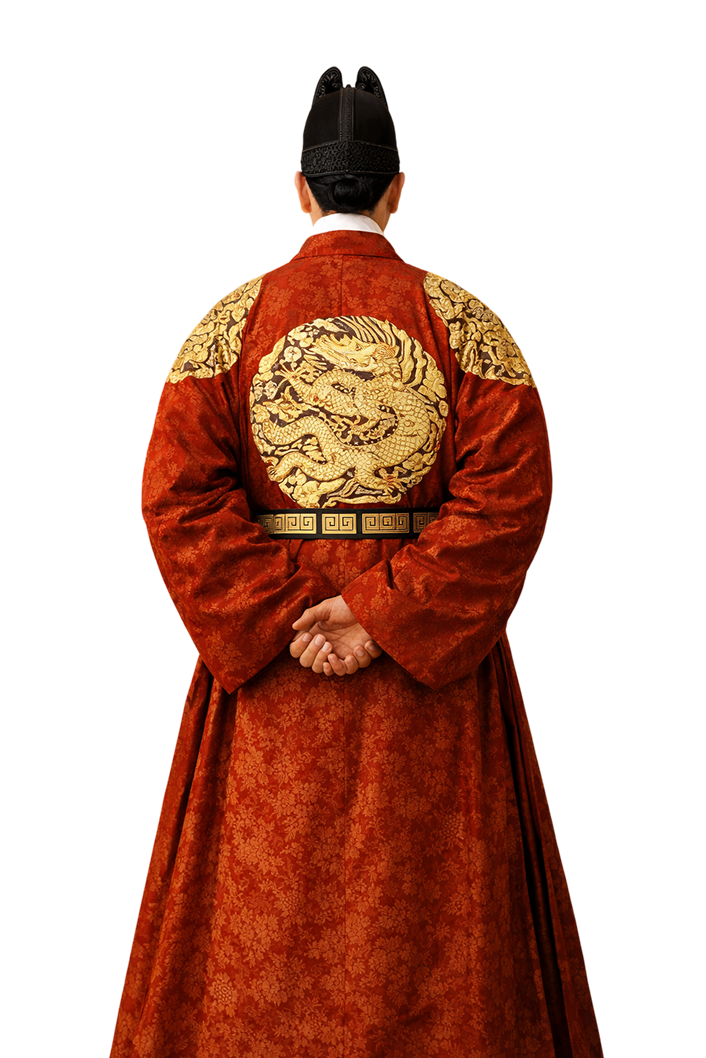
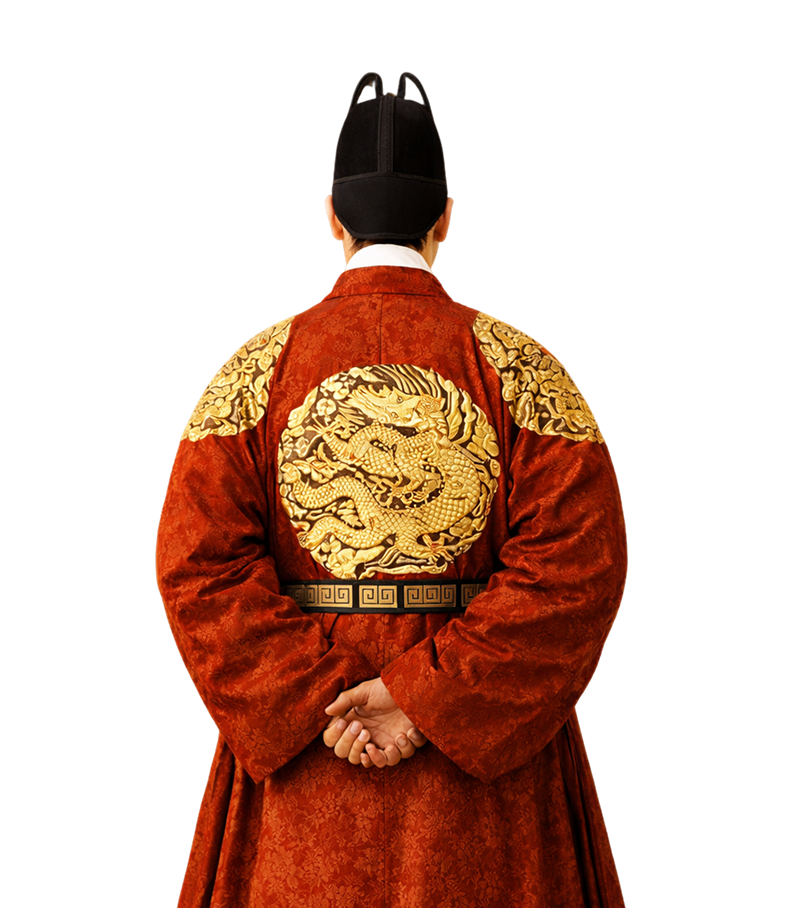
feat: aria속성 추가 및 왕 이미지 변경 스타일 수정

diff --git a/traditional1/src/parts/Hero/Herosection.tsx b/traditional1/src/parts/Hero/Herosection.tsx
@@ -4,12 +4,12 @@ import S from './HeroStyle.module.css';
 
 const Herosection = () => {
   return (
-    <section id={S.HeroSection}>
+    <section id={S.HeroSection} aria-labelledby="hero-title">
       <div className={S.heroBackground}>
         <img className={S.king} src={king} alt="" />
 
         <div className={S.heroText}>
-          <h1>왕실 유물 아카이브</h1>
+          <h1 id="hero-title">왕실 유물 아카이브</h1>
           <a className={S.linkButton} href="#">
             <div className={S.waveEffect}></div>
             <span>검색하러 바로가기</span>

diff --git a/traditional1/src/parts/Hero/HeroStyle.module.css b/traditional1/src/parts/Hero/HeroStyle.module.css
@@ -22,7 +22,10 @@
 
 .king {
   position: absolute;
-  bottom: -50%;
+  bottom: 0%;
+  width: 100%;
+  min-width: 500px;
+  max-width: 800px;
   left: 50%;
   transform: translateX(-50%);
   display: block;
@@ -102,11 +105,27 @@
 .linkButton:focus-visible {
   outline: 3px solid #f2d569;
 }
+
 @media (max-width: 768px) {
   .heroText {
     h1 {
       font-size: 3em;
     }
+  }
+}
+
+@media (max-width: 362px) {
+  .heroText {
+    h1 {
+      font-size: 2em;
+    }
+    p {
+      font-size: 1rem;
+    }
+  }
+
+  .linkButton {
+    font-size: 1rem;
   }
 }
 
